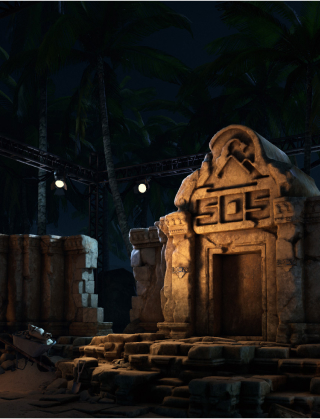
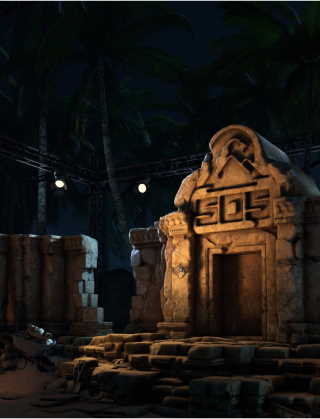
I have just started making sure of the slide image working nicely

diff --git a/webroot/css/index.css b/webroot/css/index.css
@@ -106,11 +106,11 @@ ul {
     background-repeat: no-repeat, no-repeat; } }
 
 .masthead {
-  background-image: url("../image/bg_mobile.jpg");
+  background-image: url("../image/bg_desktop.jpg");
   background-position: 0 0;
   background-repeat: no-repeat;
   background-size: cover;
-  background-position: 50% 20%;
+  background-position: 32% 50%;
   text-align: center; }
 
 .masthead_header {
@@ -158,9 +158,6 @@ ul {
 
 @media (min-width: 800px) {
   .masthead {
-    background-image: url("../image/bg_desktop.jpg");
-    background-position: 0 0;
-    background-repeat: no-repeat;
     background-position: 50% 50%;
     background-size: cover; }
   .radio_button {
@@ -237,7 +234,7 @@ ul {
 .screenshot_container {
   max-width: 100%;
   max-height: 100%;
-  padding: calc(12px * 2) 38px; }
+  padding: 12px 38px; }
 
 .sceenshot {
   max-width: 100%;
@@ -266,14 +263,14 @@ ul {
   left: calc(100% * (12 * 3) / 249);
   top: 0;
   transform: scale(calc(249 / 273));
-  right: calc(100% * 12 / 249); }
+  right: calc(100% * 12/ 249); }
 
 .screeshot3 {
   object-fit: cover;
   position: absolute;
   z-index: 1;
   transform: scale(calc(249 / (273 + 12)));
-  left: calc(100% * (12 * 2) / 249);
+  left: calc(100% * (12 * 3) / 249);
   top: 0;
   right: calc(100% * (12 * 2) / 249); }
 
@@ -281,7 +278,7 @@ ul {
   width: 10%;
   height: 10%;
   position: absolute;
-  left: 100%;
+  left: 105%;
   top: 50%;
   right: 0;
   object-fit: cover; }
@@ -490,9 +487,7 @@ ul {
     line-height: 22px; } }
 
 .quotes {
-  background-image: url("../image/bg_image5.jpg");
-  background-position: 0 0;
-  background-repeat: no-repeat; }
+  background-color: black; }
 
 .qoute_container {
   max-width: 1114px;
@@ -500,9 +495,35 @@ ul {
   margin-left: auto;
   padding: 1rem; }
 
+.qoute_header {
+  padding-bottom: 56px; }
+
 .quote_header_question {
   margin: 0rem;
   font-family: 'Bebas Neue';
   font-size: 18px;
   line-height: 18px;
   letter-spacing: 2px; }
+
+.quote_header_answer {
+  margin: 0rem;
+  font-family: 'Bebas Neue';
+  font-size: 33px;
+  line-height: 33px;
+  letter-spacing: 3px;
+  text-transform: uppercase; }
+
+.qoute_one {
+  font-family: 'Open Sans';
+  font-size: 14px;
+  line-height: 16px;
+  text-align: justify; }
+
+.quote_one_desc {
+  margin: 0rem;
+  padding-bottom: 24px; }
+
+.more_testimonial_quotes {
+  padding: 10px;
+  border: none;
+  background-color: #e1b548; }

diff --git a/scss/_quotes.scss b/scss/_quotes.scss
@@ -1,7 +1,7 @@
 @import "variables/variable";
 
 .quotes {
-    @include background('../image/bg_image5.jpg');
+    background-color: rgb(0, 0, 0);
 }
 
 .qoute_container {
@@ -11,10 +11,41 @@
     padding: $base-padding;
 }
 
+.qoute_header {
+    padding-bottom: 56px;
+}
+
 .quote_header_question {
     margin: $base-margin * 0;
     font-family: 'Bebas Neue';
     font-size: 18px;
     line-height: 18px;
     letter-spacing: 2px;
+}
+
+.quote_header_answer {
+    margin: $base-margin * 0;
+    font-family: 'Bebas Neue';
+    font-size: 33px;
+    line-height: 33px;
+    letter-spacing: 3px;
+    text-transform: uppercase;
+}
+
+.qoute_one {
+    font-family: 'Open Sans';
+    font-size: 14px;
+    line-height: 16px;
+    text-align: justify;
+}
+
+.quote_one_desc {
+    margin: $base-margin * 0;
+    padding-bottom: 24px;
+}
+
+.more_testimonial_quotes {
+    padding: 10px;
+    border: none;
+    background-color: rgb(225, 181, 72);
 }

diff --git a/scss/_sos_main.scss b/scss/_sos_main.scss
@@ -61,7 +61,7 @@
 .screenshot_container {
     max-width: 100%;
     max-height: 100%;
-    padding: calc(12px * 2) 38px;
+    padding: 12px 38px;
 }
 
 .sceenshot {
@@ -94,7 +94,7 @@
     left: calc(100% * (12 * 3) / 249);
     top: 0;
     transform: scale(calc(249 / 273));
-    right: calc(100% * 12 / 249);
+    right: calc(100% * 12/ 249);
 }
 
 .screeshot3 {
@@ -102,7 +102,7 @@
     position: absolute;
     z-index: 1;
     transform: scale(calc(249 / (273 + 12)));
-    left: calc(100% * (12 * 2) / 249);
+    left: calc(100% * (12 * 3) / 249);
     top: 0;
     right: calc(100% * (12 * 2) / 249);
 }
@@ -111,7 +111,7 @@
     width: 10%;
     height: 10%;
     position: absolute;
-    left: 100%;
+    left: 105%;
     top: 50%;
     right: 0;
     object-fit: cover;

diff --git a/webroot/index.html b/webroot/index.html
@@ -183,7 +183,7 @@
                         <p class="quote_header_answer">Press quotes</p>
                     </header>
                     <div class="quote_one">
-                        <p>
+                        <p class="quote_one_desc">
                             Our goal is to create a product and service that you’re satisfied with and use it every day. This is why we’re constantly working on our services to make it better every day and really listen to what our users has to say.
                         </p>
                         <button class="more_testimonial_quotes">Read more testimonials</button>

diff --git a/scss/_masthead.scss b/scss/_masthead.scss
@@ -1,9 +1,9 @@
 @import "variables/variable";
 
 .masthead {
-    @include background('../image/bg_mobile.jpg');
+    @include background('../image/bg_desktop.jpg');
     background-size: cover;
-    background-position: 50% 20%;
+    background-position: 32% 50%;
     text-align: $text-align;
 }
 
@@ -60,7 +60,6 @@
 
 @media (min-width: 800px) {
     .masthead {
-        @include background('../image/bg_desktop.jpg');
         background-position: 50% 50%;
         background-size: cover;
     }
